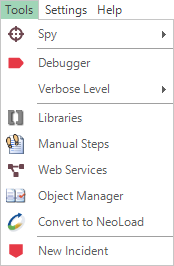
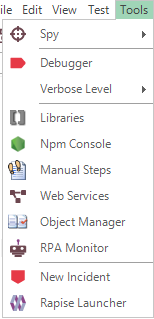
npm config described

Changed region(s): [[0.0, 0.0, 1.0, 1.0], [0.2078, 0.4211, 0.7273, 0.4812]]

diff --git a/docs/Guide/menu_and_toolbars.md b/docs/Guide/menu_and_toolbars.md
@@ -191,10 +191,10 @@ The **Tools** menu contents depend on the active editor currently open in the [c
 * **Debugger** - toggles [debugger](internal_debugger.md). 
 * **Verbose Level**- drop-down list controls the [Verbosity Level](verbosity_levels.md).
 * **Libraries** - this button opens the [Select an Application Dialog](select_an_application_to_record_dialog.md) so that you can add/change the [libraries](recording_library.md) being used to record the current test.
-* **Manual Steps** - displays the [manual test steps](manual_test_editor.md) associated with this test.
+* **Npm Console** - show an `npm console` for the current testing [framework](../Intro/framework.md). This way you may quickly install new packages or initialize using existing `package.json`.
 * **Web Services** - allows you to add a new [web service](web_service_testing.md) definition to your Rapise test. Clicking on this displays the [Add Web Service](dialog_add_web_service.md) dialog box.
 * **Object Manager** - open the [Object Manager](object_manager.md) add-in; this add-in is used to copy recorded objects between test scripts.
-* **Convert to NeoLoad** - open the [NeoLoad conversion dialog](neoload_convertor_dialog.md). This lets you convert a Rapise test script into a [NeoLoad performance test](neoload_integration.md).
+into a [NeoLoad performance test](neoload_integration.md).
 * **RPA Monitor** - open [RPA Monitor](/Manuals/Rpa/).
 * **Rapise Launcher** - starts [Rapise Launcher](/Guide/spiratest_integration/#using-rapiselauncher).
 * **New Incident**
